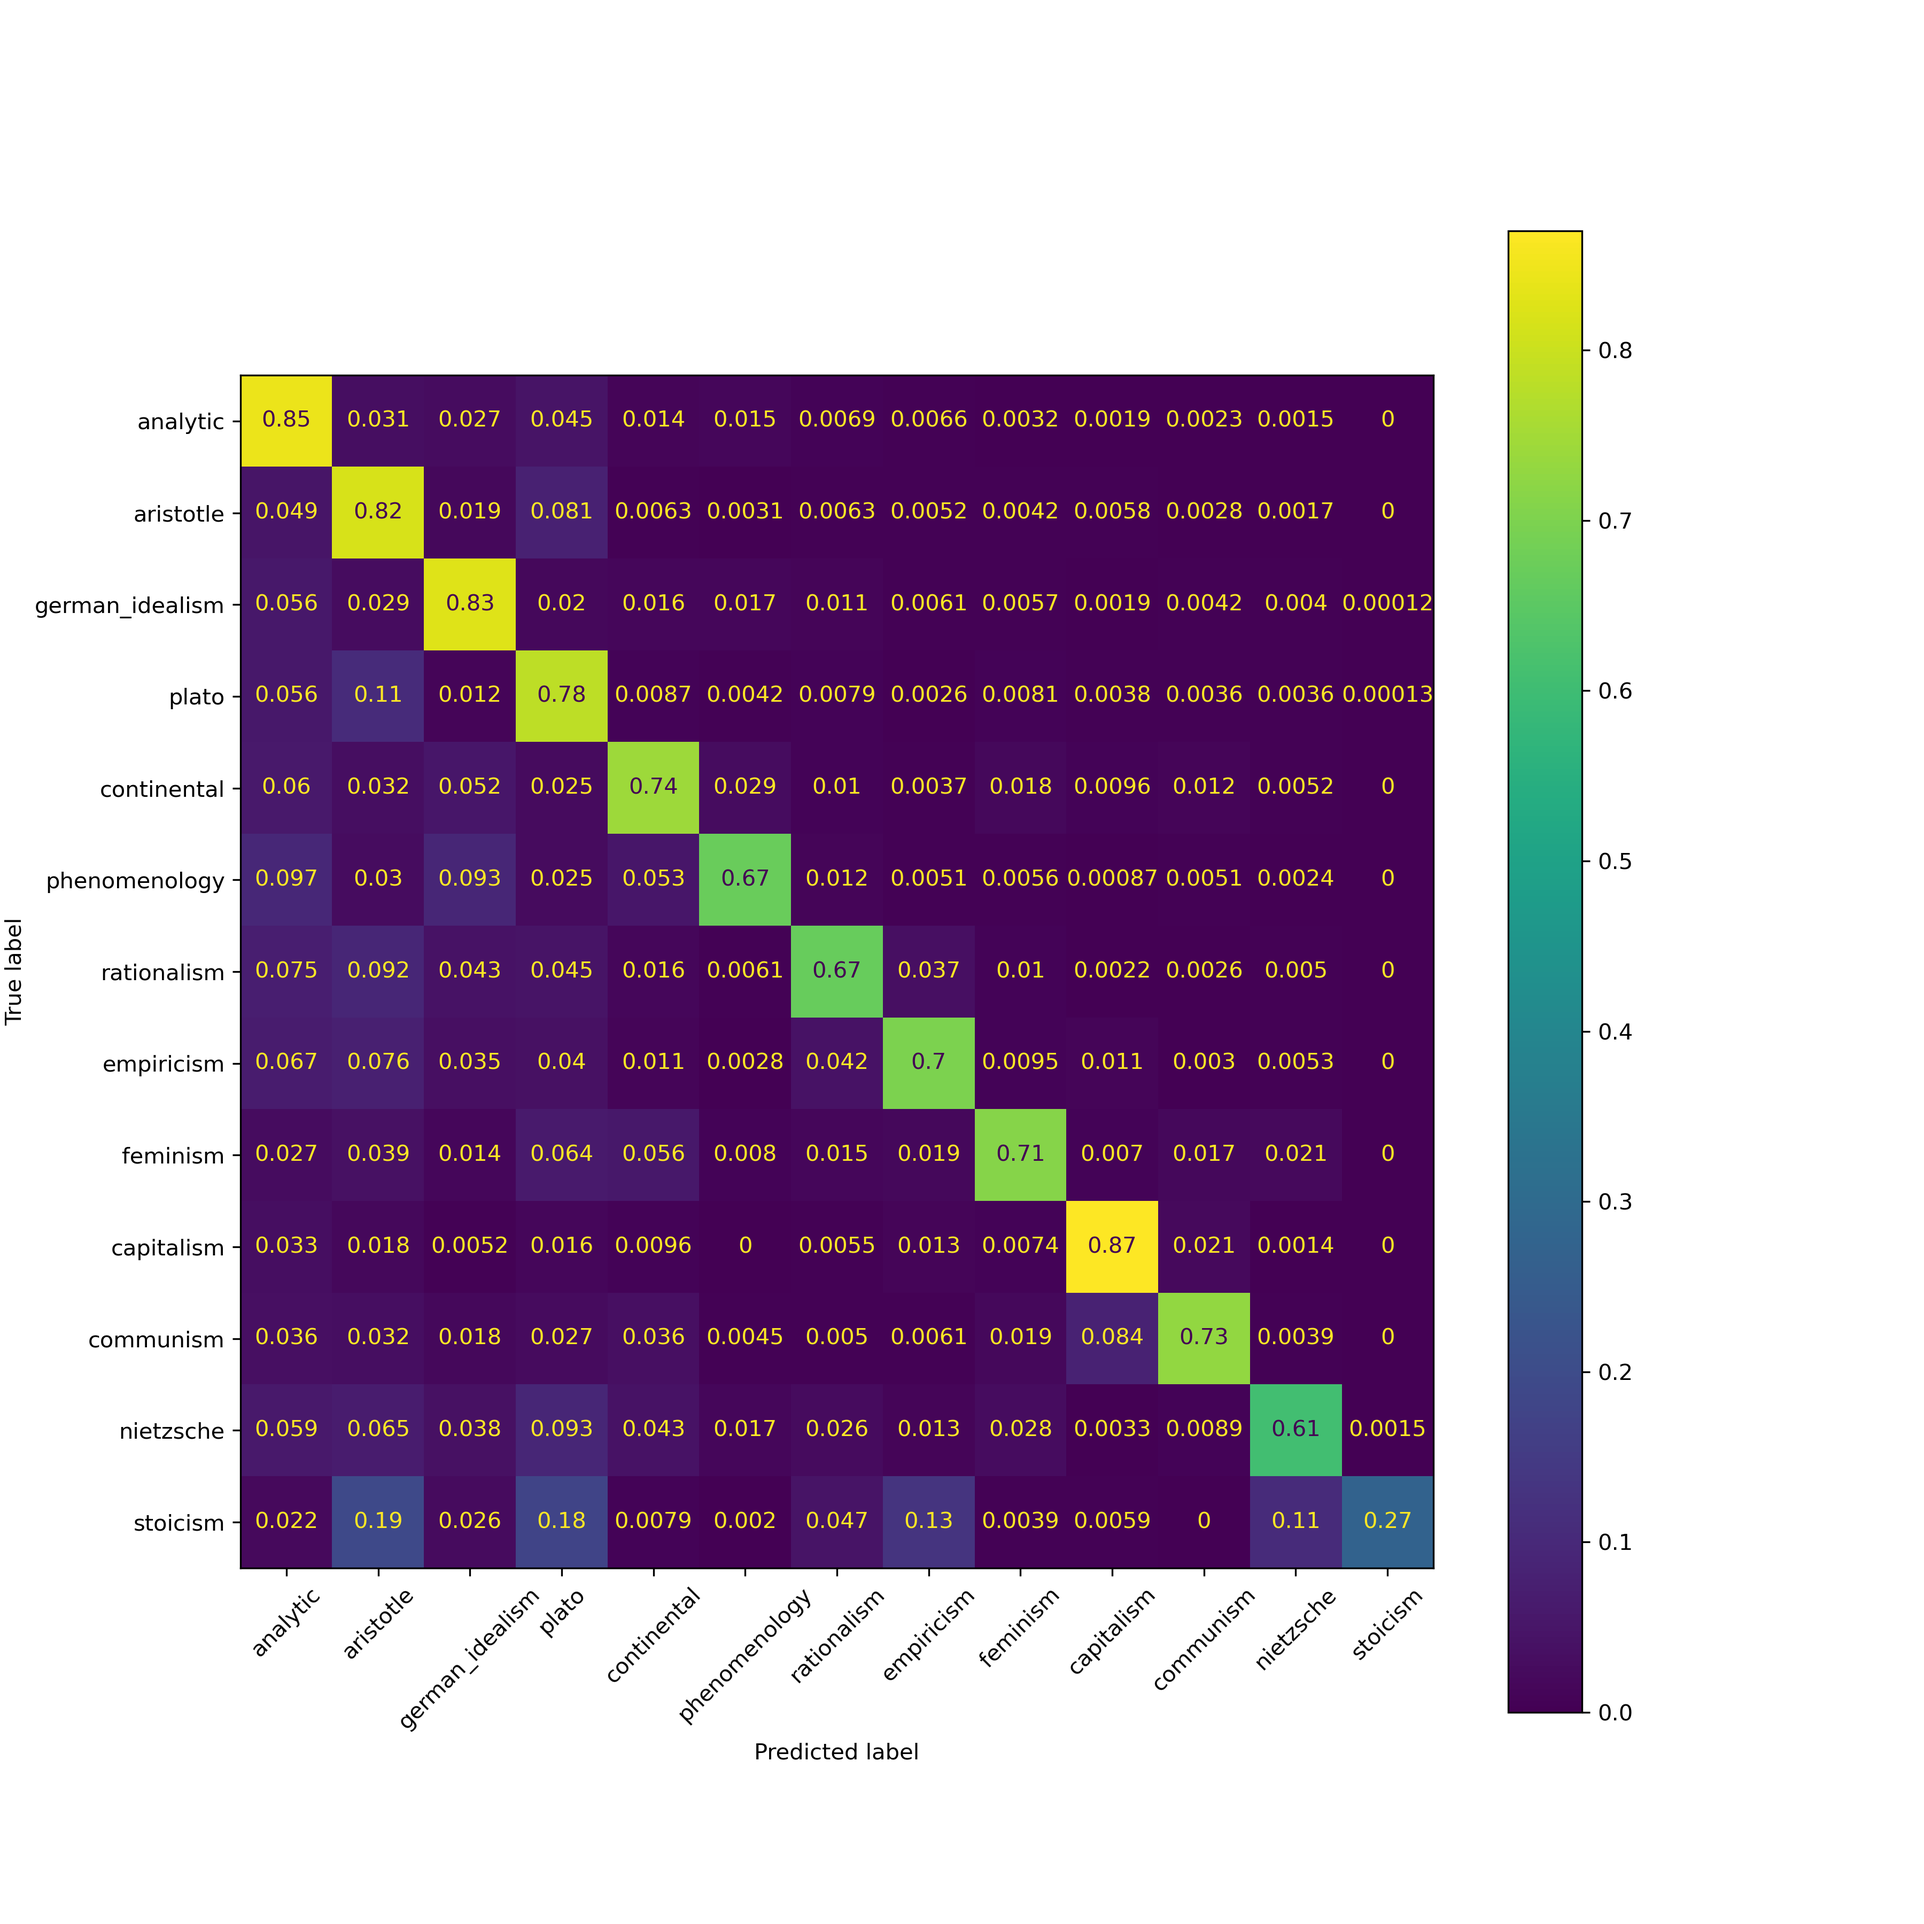
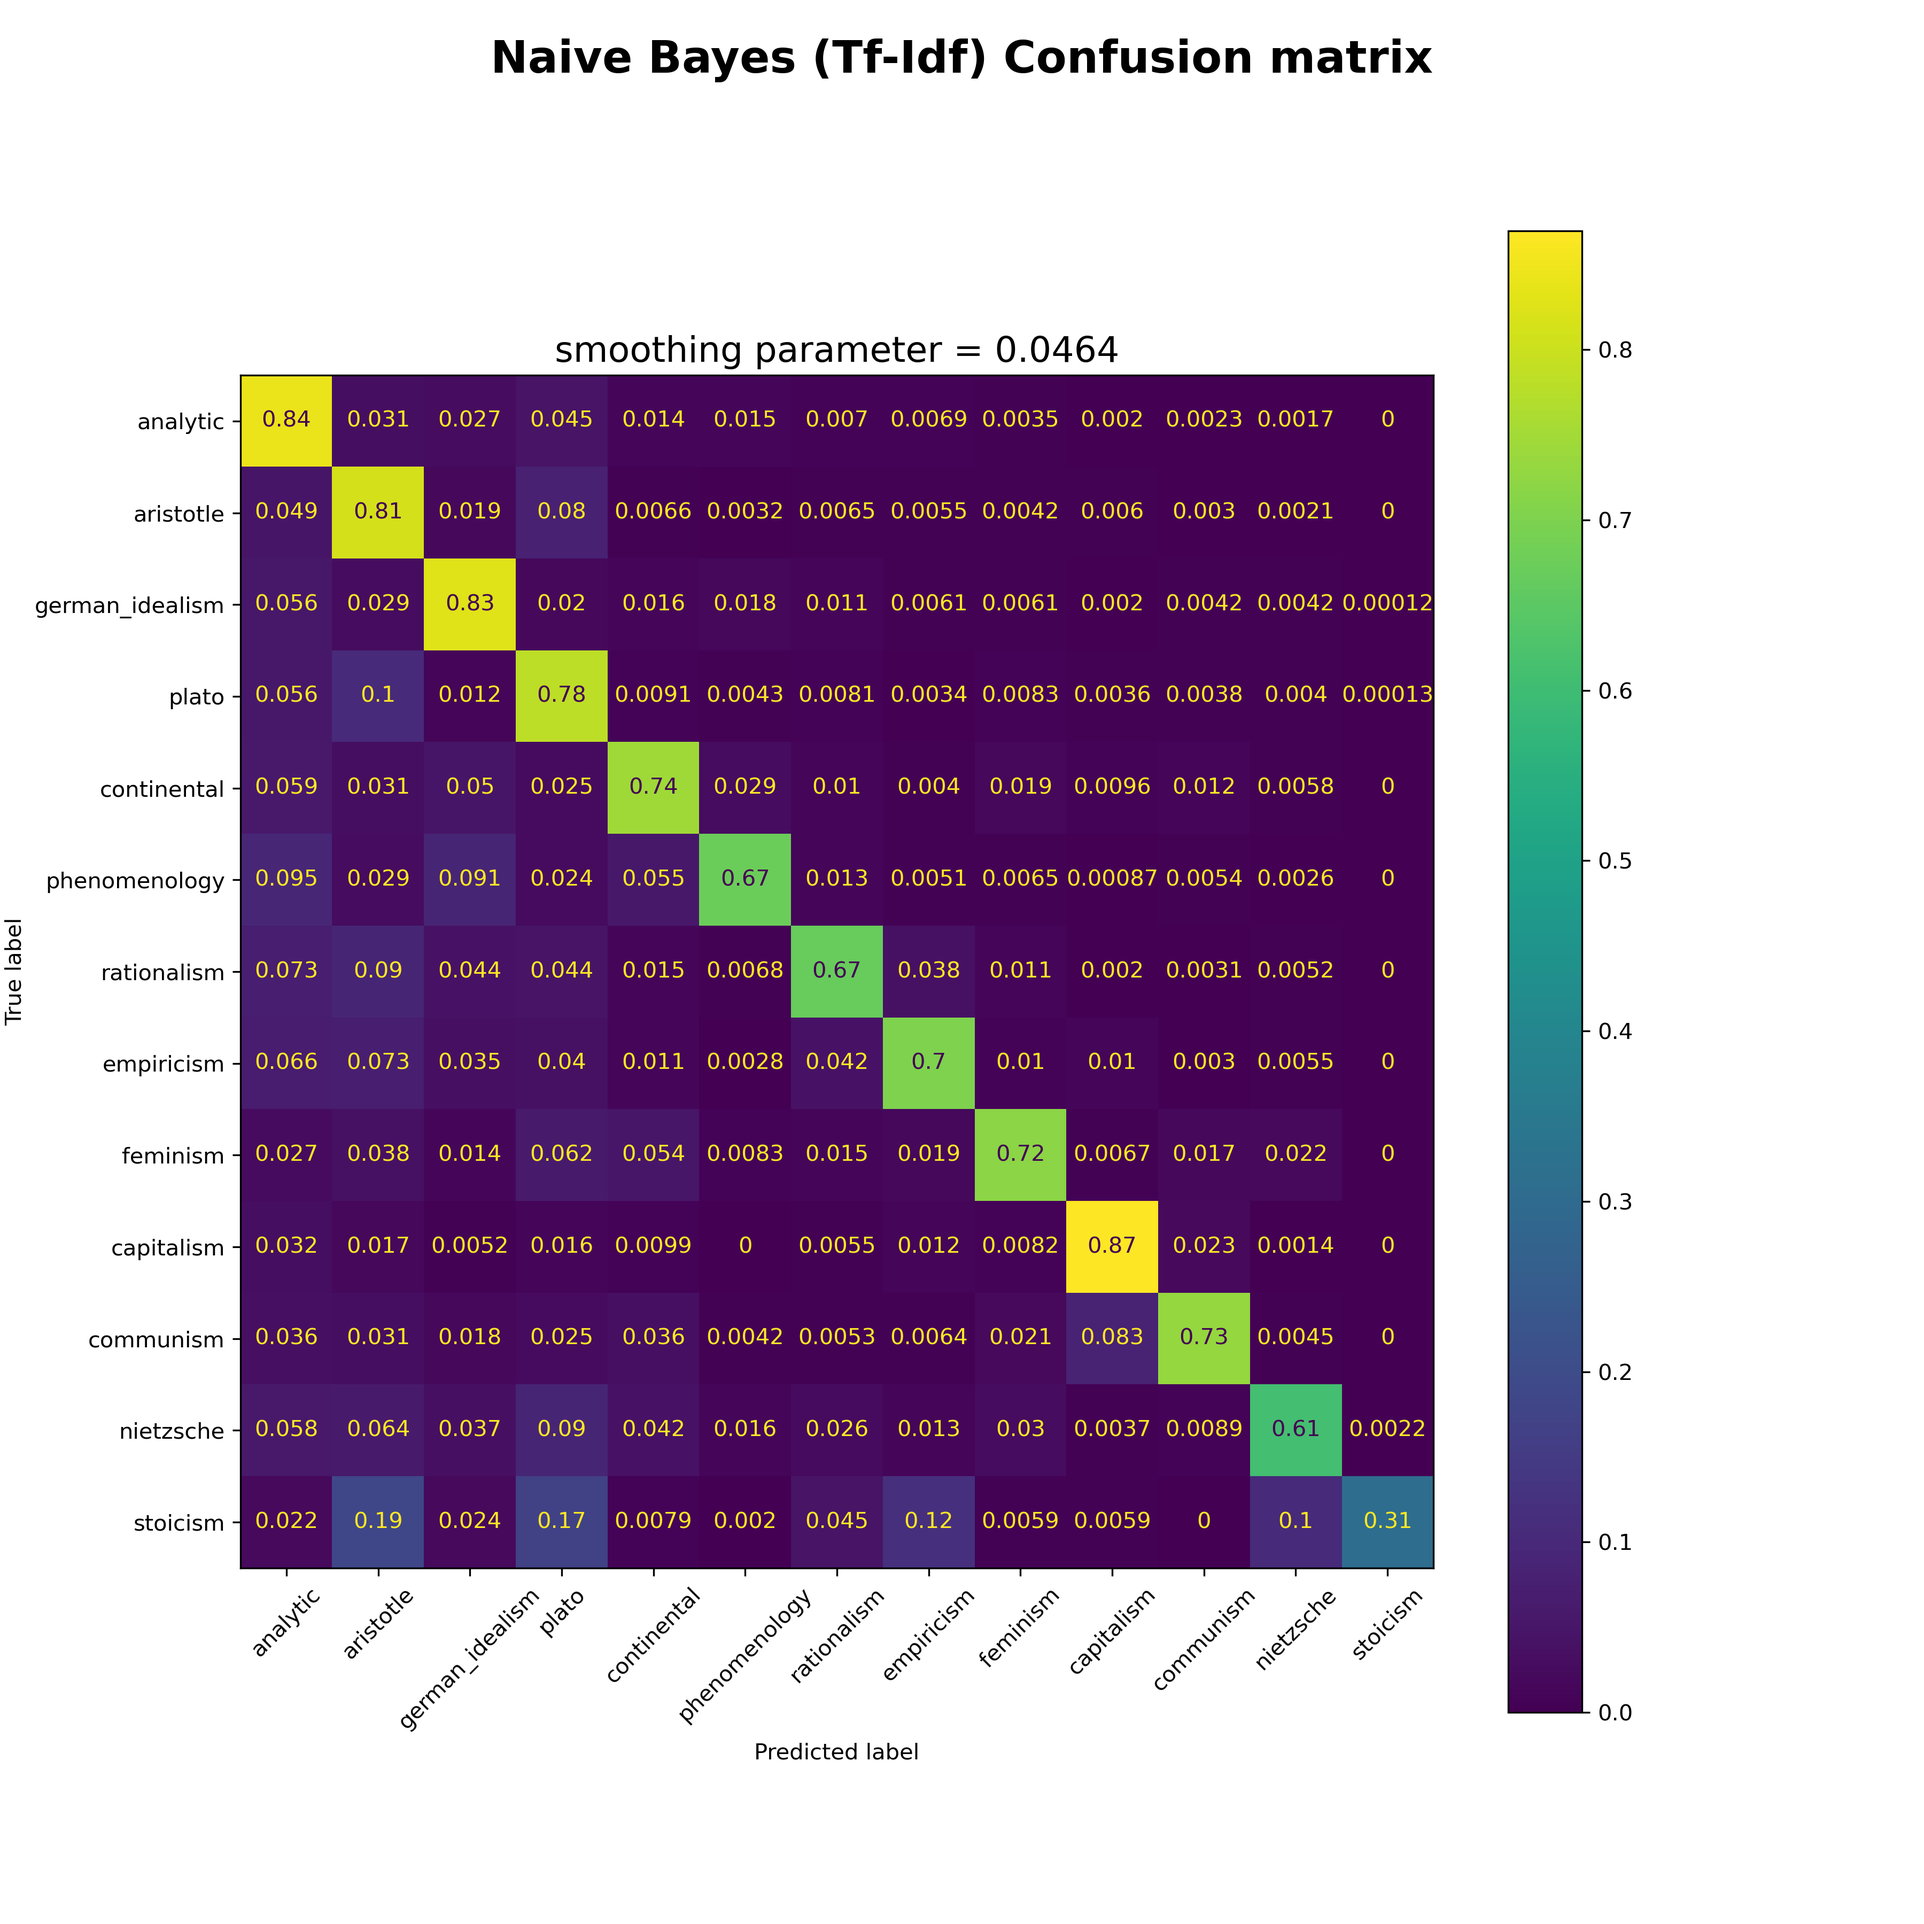
Adjusted Tf-Idf naive bayes, small tweaks in functions

diff --git a/NaiveBayes/NB_Tf-Idf.py b/NaiveBayes/NB_Tf-Idf.py
@@ -1,19 +1,25 @@
-import pandas as pd
+#import pandas as pd
 import numpy as np
 import os 
 import sys
 sys.path.insert(1, os.path.join(sys.path[0], '..'))
 
+from datetime import datetime
+
 from sklearn.naive_bayes import MultinomialNB 
-#from sklearn.model_selection import train_test_split
 from sklearn.feature_extraction.text import TfidfVectorizer
 from scoring import scorePhilosophy
 from utilities import getData
 
 from sklearn.metrics import precision_recall_fscore_support, f1_score
 
+# file, folder, path... Where to record our numbers
+# Pathing is a nightmare in python...
+FOLDER = os.path.join('NaiveBayes','Results')
+FILENAME = 'NB_Tf-Idf_results.txt'
+FILEPATH = os.path.join(FOLDER,FILENAME)
 
-# data splitting
+# data import and splitting
 tr, vl, _ = getData()
 X_train = tr['sentence_str']
 y_train = tr['school']
@@ -30,20 +36,35 @@ X_train = vectorizer.fit_transform(X_train)
 # ... and "test" data (without changing the vocabulary)
 X_val = vectorizer.transform(X_val)
 
-smoothing = 1/np.logspace(0,3,num=4) #0,4,num=10
+
+with open(FILEPATH, 'w') as file:
+    file.write('Naive Bayes on the Tf-Idf weighted term-document matrix\n')
+    file.write('Scores for different values of the smoothing parameter\n\n')
+    file.write(f'Ran on {datetime.now()}\n\n')
+
+
+smoothing = np.append(1/np.logspace(0,4,num=10),0) #0,4,num=10 or 0,3,num=4
 pars_results = []
 for smooth_par in smoothing:
     model = MultinomialNB(alpha=smooth_par, fit_prior=True)
     model.fit(X_train, y_train)
     y_pred = model.predict(X_val)
-    print()
-    print(f'\tSmoothing par = {smooth_par}')
-    print('Macroaverage:')
-    print(precision_recall_fscore_support(y_val, y_pred, zero_division=0.0, average='macro'))
-    print('Microaverage:')
-    print(precision_recall_fscore_support(y_val, y_pred, zero_division=0.0, average='micro'))
-    print('Weighted Macroaverage??')
-    print(precision_recall_fscore_support(y_val, y_pred, zero_division=0.0, average='weighted'))
+
+    with open(FILEPATH, 'a') as file:
+        file.write(f'\tSmoothing parameter = {smooth_par}\n')
+        macroPrec, macroRec, macroF1, _ = precision_recall_fscore_support(y_val, y_pred, zero_division=0.0, average='macro')
+        file.write(f'Macroaverage precision = {macroPrec}\t') 
+        file.write(f'Macroaverage recall = {macroRec}\t')
+        file.write(f'Macroaverage F1 = {macroF1}\n')
+
+        weightedPrec, weightedRec, weightedF1, _ = precision_recall_fscore_support(y_val, y_pred, zero_division=0.0, average='weighted')
+        file.write(f'Macroaverage precision = {weightedPrec}\t')
+        file.write(f'Macroaverage recall = {weightedRec}\t')
+        file.write(f'Macroaverage F1 = {weightedF1}\n')
+
+        micro = f1_score(y_true=y_val, y_pred=y_pred, average='micro')
+        file.write(f'Microaverage precision = microaverage recall = microaverage F1 = {micro}\n')
+        file.write('\n')
 
     # I choose as a reference metric the microaverage F1
     pars_results.append((f1_score(y_true=y_val, y_pred=y_pred, average='micro'),smooth_par))
@@ -53,14 +74,16 @@ best_f1, best_alpha = sorted(pars_results)[-1]
 print(f'Found that best smoothing parameter is {best_alpha}')
 print(f'Which gave a F1 score on the validation set of {best_f1}')
 
-# we can retrain now. Shall we do it?
+# we can retrain now. Shall we do it on Tr + Val? How??
+model = MultinomialNB(alpha=best_alpha, fit_prior=True)
+model.fit(X_train, y_train)
+y_pred = model.predict(X_val)
 
-
-
-#SCHOOLS = df['school'].unique()
-
-# scorePhilosophy(prediction=y_pred, 
-#                 ground_truth=y_val,
-#                 showConfusionMatrix=True,
-#                 saveFolder='NaiveBayes/Images',
-#                 saveName='NB_TF-Idf')
+# show final score
+scorePhilosophy(prediction=y_pred, 
+                ground_truth=y_val,
+                modelName='Naive Bayes (Tf-Idf)',
+                subtitle=f'smoothing parameter = {best_alpha:.4f}',
+                showConfusionMatrix=True,
+                saveFolder='NaiveBayes/Images',
+                saveName='NB_TF-Idf')

diff --git a/scoring.py b/scoring.py
@@ -13,6 +13,8 @@ SCHOOLS = ['analytic','aristotle','german_idealism',
 
 def scorePhilosophy(prediction: List[str], 
                     ground_truth: List[str], 
+                    modelName:str = '',
+                    subtitle:str = '',
                     saveName:str=None, 
                     saveFolder:str='..',
                     showConfusionMatrix:bool=False) -> None:
@@ -21,6 +23,9 @@ def scorePhilosophy(prediction: List[str],
     disp.plot()
     plt.gcf().set_size_inches(12, 12)
     plt.xticks(rotation=45)
+    plt.suptitle(f'{modelName} Confusion matrix', fontweight='bold', fontsize=20)
+    if subtitle != '':
+        plt.title(subtitle, fontsize=16)
     if saveName:
         fig_path = os.path.join(saveFolder, saveName)
         plt.savefig(fig_path, dpi=300)
@@ -30,5 +35,6 @@ def scorePhilosophy(prediction: List[str],
     print(classification_report(ground_truth, 
                                 prediction, 
                                 target_names=SCHOOLS,
-                                #labels=list(range(1,14))
                                 ))
+    
+    

diff --git a/utilities.py b/utilities.py
@@ -8,5 +8,9 @@ def getData(validation_size:float=0.2, test_size:float=0.1)-> tuple[pd.DataFrame
     #split vslidation ant train from train
     if validation_size == 0:
         return development, None, test
-    train, validation = train_test_split(development, test_size=validation_size/(1 - test_size), stratify=development['school'], random_state=42, shuffle=True)
+    train, validation = train_test_split(development, 
+                                         test_size=validation_size/(1 - test_size), 
+                                         stratify=development['school'], 
+                                         random_state=42, 
+                                         shuffle=True)
     return train, validation, test
